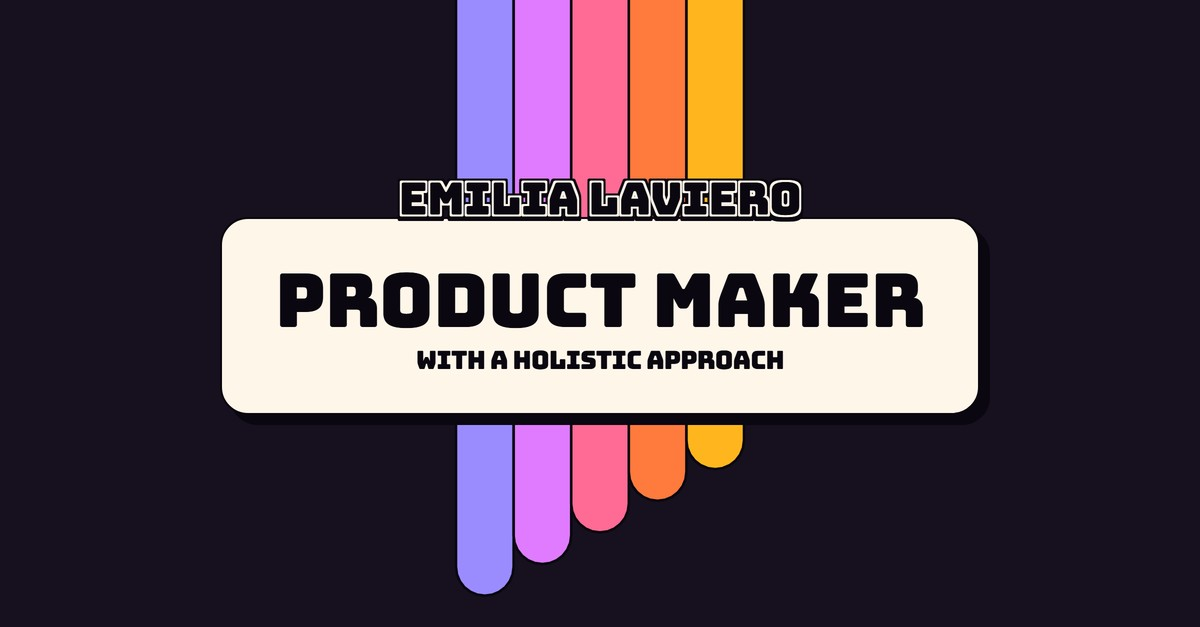
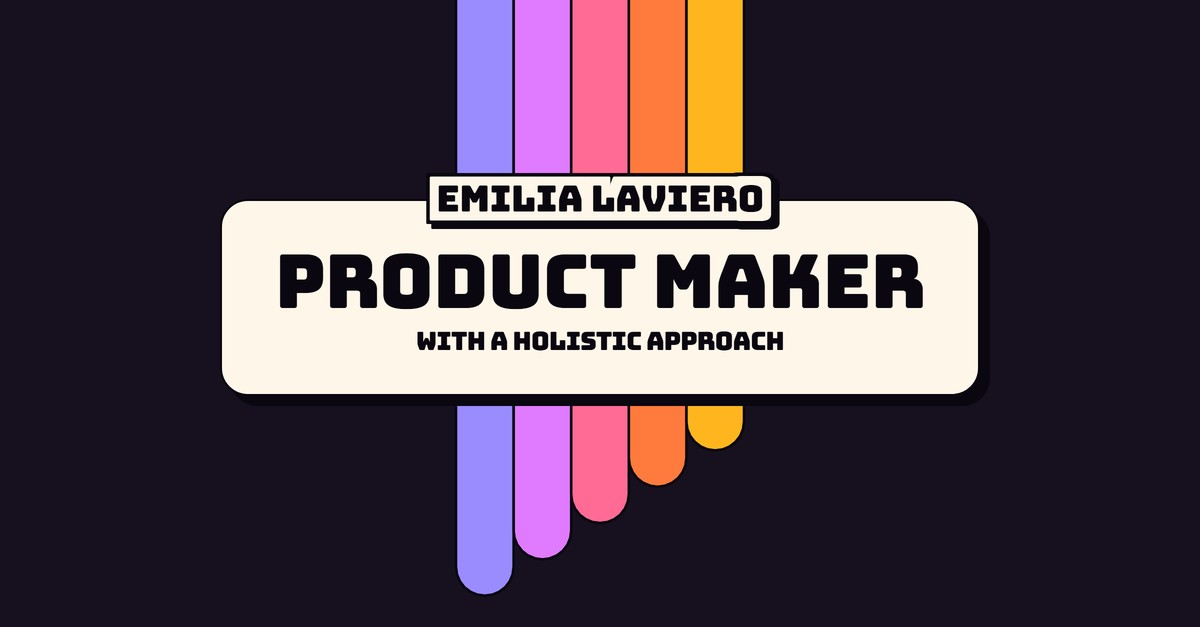
Link preview: name on the card edge, wider paper border

Changed region(s): [[0.185, 0.2727, 0.8325, 0.8182], [0.4625, 0.8182, 0.5242, 0.8485], [0.4317, 0.8788, 0.4625, 0.9091]]

diff --git a/index.html b/index.html
@@ -358,6 +358,7 @@
     .box:hover, .pill:hover, .scroll-hint i, .sq .ear, .sq .mouth, .sq .tongue, .sq .hand { animation: none; }
   }
 </style>
+<script defer src="https://cloud.umami.is/script.js" data-website-id="fcb351f4-7b90-480b-a4d0-76a9ef057f95"></script>
 </head>
 <body class="t-bungee">
 <svg width="0" height="0" style="position:absolute" aria-hidden="true">
@@ -430,7 +431,7 @@
             <p class="lead">For the past five years, I&rsquo;ve worked on B2B <mark class="m1">SaaS</mark> and B2C products in startups. I help teams find <mark class="m0">clarity</mark>: identifying the real problems and prioritising the features that matter&nbsp;most.</p>
             <p class="lead">In <mark class="m1">EdTech</mark>, I found an industry I genuinely love: designing educational <mark class="m0">apps</mark>, building <mark class="m0">design systems</mark> and searching for <mark class="m1">product-market&nbsp;fit</mark>.</p>
           </div>
-          <a class="pill more" href="about.html" data-cursor="About me">Read more ↗</a>
+          <a class="pill more" data-umami-event="read-more-about" href="about.html" data-cursor="About me">Read more ↗</a>
         </div>
       </div>
     </div>
@@ -451,10 +452,10 @@
       <p class="label kick">Thank you for reading!</p>
       <h2 class="display reveal" id="contact-title">I&rsquo;d love to <span class="box">know you</span> too</h2>
       <ul class="links">
-        <li><span class="pill email">lavieroemilia@gmail.com <button type="button" class="copy" data-email="lavieroemilia@gmail.com" aria-label="Copy email" data-cursor="Copy"><svg class="i-copy" viewBox="0 0 24 24" fill="none" aria-hidden="true"><rect x="9" y="9" width="12" height="12" rx="2" stroke="currentColor" stroke-width="2"/><path d="M5 15H4a1 1 0 0 1-1-1V4a1 1 0 0 1 1-1h10a1 1 0 0 1 1 1v1" stroke="currentColor" stroke-width="2" stroke-linecap="round"/></svg><svg class="i-check" viewBox="0 0 24 24" fill="none" aria-hidden="true"><path d="M5 12.5L10 17.5L19 7" stroke="currentColor" stroke-width="2.5" stroke-linecap="round" stroke-linejoin="round"/></svg></button></span></li>
-        <li><a class="pill" href="https://www.linkedin.com/in/emilialaviero/" target="_blank" rel="noopener" data-cursor="Open LinkedIn">LinkedIn ↗</a></li>
-        <li><a class="pill" href="https://medium.com/@emilaviero" target="_blank" rel="noopener" data-cursor="Open Medium">Medium ↗</a></li>
-        <li><a class="pill" href="https://drive.google.com/file/d/1TCPcE9fgOwlY57MC0pf6gdawFP0CLo67/view?usp=sharing" target="_blank" rel="noopener" data-cursor="Open resume">Resume ↗</a></li>
+        <li><span class="pill email">lavieroemilia@gmail.com <button type="button" data-umami-event="copy-email" class="copy" data-email="lavieroemilia@gmail.com" aria-label="Copy email" data-cursor="Copy"><svg class="i-copy" viewBox="0 0 24 24" fill="none" aria-hidden="true"><rect x="9" y="9" width="12" height="12" rx="2" stroke="currentColor" stroke-width="2"/><path d="M5 15H4a1 1 0 0 1-1-1V4a1 1 0 0 1 1-1h10a1 1 0 0 1 1 1v1" stroke="currentColor" stroke-width="2" stroke-linecap="round"/></svg><svg class="i-check" viewBox="0 0 24 24" fill="none" aria-hidden="true"><path d="M5 12.5L10 17.5L19 7" stroke="currentColor" stroke-width="2.5" stroke-linecap="round" stroke-linejoin="round"/></svg></button></span></li>
+        <li><a data-umami-event="open-linkedin" class="pill" href="https://www.linkedin.com/in/emilialaviero/" target="_blank" rel="noopener" data-cursor="Open LinkedIn">LinkedIn ↗</a></li>
+        <li><a data-umami-event="open-medium" class="pill" href="https://medium.com/@emilaviero" target="_blank" rel="noopener" data-cursor="Open Medium">Medium ↗</a></li>
+        <li><a data-umami-event="open-resume" class="pill" href="https://drive.google.com/file/d/1TCPcE9fgOwlY57MC0pf6gdawFP0CLo67/view?usp=sharing" target="_blank" rel="noopener" data-cursor="Open resume">Resume ↗</a></li>
       </ul>
       <div class="foot-bottom"><span>Emilia Laviero &copy; <span id="year"></span></span><span>Madrid, Spain</span><a class="to-top" href="#top" data-jump="0">Back to top ↑</a></div>
     </div>
@@ -778,7 +779,7 @@
   const ROWS = [['two', ['Student Dashboard', 'Dino']], ['two', ['Practice', 'Quota PMS']], ['three', ['Tenant Scoring', 'Dino Design System', 'WOW']]];
   const company = (n) => V4.PROJECTS.find((p) => p.name === n).company;
   $('#work-grid').innerHTML = ROWS.map(([k, names]) => '<div class="work-row ' + k + '">' + names.map((n) =>
-    '<a class="proj" href="' + ({ 'Student Dashboard': 'pages/student-dashboard.html', 'Dino': 'pages/dino.html', 'Practice': 'pages/practice.html', 'Quota PMS': 'pages/quota-pms.html' }[n] || '#work') + '" data-cursor="' + (LINE[n][1] ? 'Coming soon' : 'Open case study') + '"><span class="chip">' + company(n) + '</span><div class="frame"><img src="assets/images/' + IMG[n] + '.jpg" alt="" loading="lazy"></div>'
+    '<a class="proj" data-umami-event="open-project" data-umami-event-project="' + n + '" href="' + ({ 'Student Dashboard': 'pages/student-dashboard.html', 'Dino': 'pages/dino.html', 'Practice': 'pages/practice.html', 'Quota PMS': 'pages/quota-pms.html' }[n] || '#work') + '" data-cursor="' + (LINE[n][1] ? 'Coming soon' : 'Open case study') + '"><span class="chip">' + company(n) + '</span><div class="frame"><img src="assets/images/' + IMG[n] + '.jpg" alt="" loading="lazy"></div>'
     + '<h3>' + LINE[n][0] + '</h3>' + (DESC[n] ? '<p class="desc">' + DESC[n] + '</p>' : '') + (LINE[n][1] ? '<span class="soon">Coming soon</span>' : '') + '</a>').join('') + '</div>').join('');
   $$('.proj').forEach((p) => {
     glue(p.querySelector('h3')); if (p.querySelector('.desc')) glue(p.querySelector('.desc'));

diff --git a/about.html b/about.html
@@ -119,6 +119,7 @@
   }
   @media (prefers-reduced-motion: reduce) { .tool .logo, .pill-btn, .copy svg { transition: none; } .scroll-hint i { animation: none; } }
 </style>
+<script defer src="https://cloud.umami.is/script.js" data-website-id="fcb351f4-7b90-480b-a4d0-76a9ef057f95"></script>
 </head>
 <body>
 <svg width="0" height="0" style="position:absolute" aria-hidden="true">
@@ -157,7 +158,7 @@
       <p>My story starts with words. I began my career coordinating creative projects and working in <mark>copywriting</mark>, writing for different brands and creating educational&nbsp;content.</p>
       <p>Little by little, the words led me to the whole experience. First came UX writing, then <mark>product design</mark>. Over the past five years I&rsquo;ve designed <mark class="alt">B2B and B2C</mark> products in startups: first in PropTech, with tools for property management, and then in <mark class="alt">EdTech</mark>, with learning experiences and educational&nbsp;apps.</p>
       <p>Today I work on <mark>strategy</mark>, asking the big questions that set a product&rsquo;s direction, and I <mark>build the solutions</mark> that answer&nbsp;them.</p>
-      <a class="pill-btn" href="https://drive.google.com/file/d/1TCPcE9fgOwlY57MC0pf6gdawFP0CLo67/view?usp=sharing" target="_blank" rel="noopener">View Resume <svg viewBox="0 0 16 16" fill="none" aria-hidden="true"><path d="M5 11 11 5M6 5h5v5" stroke="currentColor" stroke-width="1.8" stroke-linecap="round" stroke-linejoin="round"/></svg></a>
+      <a data-umami-event="open-resume" class="pill-btn" href="https://drive.google.com/file/d/1TCPcE9fgOwlY57MC0pf6gdawFP0CLo67/view?usp=sharing" target="_blank" rel="noopener">View Resume <svg viewBox="0 0 16 16" fill="none" aria-hidden="true"><path d="M5 11 11 5M6 5h5v5" stroke="currentColor" stroke-width="1.8" stroke-linecap="round" stroke-linejoin="round"/></svg></a>
     </div>
   </section>
 
@@ -216,10 +217,10 @@
   <p class="label">Thank you for reading!</p>
   <h2 class="display" id="contact-title">I&rsquo;d love to <span class="box">know you</span> too</h2>
   <ul class="links">
-    <li><span class="email">lavieroemilia@gmail.com <button type="button" class="copy" data-email="lavieroemilia@gmail.com" aria-label="Copy email"><svg class="i-copy" viewBox="0 0 24 24" fill="none" aria-hidden="true"><rect x="9" y="9" width="12" height="12" rx="2" stroke="currentColor" stroke-width="2"/><path d="M5 15H4a1 1 0 0 1-1-1V4a1 1 0 0 1 1-1h10a1 1 0 0 1 1 1v1" stroke="currentColor" stroke-width="2" stroke-linecap="round"/></svg><svg class="i-check" viewBox="0 0 24 24" fill="none" aria-hidden="true"><path d="M5 12.5L10 17.5L19 7" stroke="currentColor" stroke-width="2.5" stroke-linecap="round" stroke-linejoin="round"/></svg></button></span></li>
-    <li><a href="https://www.linkedin.com/in/emilialaviero/" target="_blank" rel="noopener">LinkedIn ↗</a></li>
-    <li><a href="https://medium.com/@emilaviero" target="_blank" rel="noopener">Medium ↗</a></li>
-    <li><a href="https://drive.google.com/file/d/1TCPcE9fgOwlY57MC0pf6gdawFP0CLo67/view?usp=sharing" target="_blank" rel="noopener">Resume ↗</a></li>
+    <li><span class="email">lavieroemilia@gmail.com <button type="button" data-umami-event="copy-email" class="copy" data-email="lavieroemilia@gmail.com" aria-label="Copy email"><svg class="i-copy" viewBox="0 0 24 24" fill="none" aria-hidden="true"><rect x="9" y="9" width="12" height="12" rx="2" stroke="currentColor" stroke-width="2"/><path d="M5 15H4a1 1 0 0 1-1-1V4a1 1 0 0 1 1-1h10a1 1 0 0 1 1 1v1" stroke="currentColor" stroke-width="2" stroke-linecap="round"/></svg><svg class="i-check" viewBox="0 0 24 24" fill="none" aria-hidden="true"><path d="M5 12.5L10 17.5L19 7" stroke="currentColor" stroke-width="2.5" stroke-linecap="round" stroke-linejoin="round"/></svg></button></span></li>
+    <li><a data-umami-event="open-linkedin" href="https://www.linkedin.com/in/emilialaviero/" target="_blank" rel="noopener">LinkedIn ↗</a></li>
+    <li><a data-umami-event="open-medium" href="https://medium.com/@emilaviero" target="_blank" rel="noopener">Medium ↗</a></li>
+    <li><a data-umami-event="open-resume" href="https://drive.google.com/file/d/1TCPcE9fgOwlY57MC0pf6gdawFP0CLo67/view?usp=sharing" target="_blank" rel="noopener">Resume ↗</a></li>
   </ul>
   <div class="foot"><span>Emilia Laviero &copy; <span id="year">2026</span></span><span>Madrid, Spain</span><a class="to-top" href="#">Back to top ↑</a></div>
 </footer>

diff --git a/pages/practice.html b/pages/practice.html
@@ -26,6 +26,7 @@
   .cover img { object-position: 50% 50%; }
   .zcrop.on-stage { padding: 0; } /* las imágenes ya traen su margen */
 </style>
+<script defer src="https://cloud.umami.is/script.js" data-website-id="fcb351f4-7b90-480b-a4d0-76a9ef057f95"></script>
 </head>
 <body>
 <svg width="0" height="0" style="position:absolute" aria-hidden="true">
@@ -125,9 +126,9 @@
   <section class="divided" aria-labelledby="more-title">
     <div class="more-head"><h2 class="display sec-title" id="more-title" style="margin: 0"><span class="box">More work</span></h2><a href="../#work">All projects ↗</a></div>
     <div class="cards">
-      <a class="proj" href="student-dashboard.html"><span class="chip">Ucademy</span><div class="frame"><img src="../assets/images/project-ucademy-dashboard.jpg" alt="" loading="lazy"></div><h4>Student dashboard</h4><p class="desc">A redesigned start experience that guides students every day, from their first visit to exam&nbsp;day.</p></a>
-      <a class="proj" href="dino.html"><span class="chip">Dino</span><div class="frame"><img src="../assets/images/project-dino-app.jpg" alt="" loading="lazy"></div><h4>Gamified learning app</h4><p class="desc">An MVP for a new line of business at Ucademy, launched to find product-market&nbsp;fit.</p></a>
-      <a class="proj" href="quota-pms.html"><span class="chip">Quota</span><div class="frame"><img src="../assets/images/project-quota-pms.jpg" alt="" loading="lazy"></div><h4>Property management platform</h4><p class="desc">One platform for rental agencies to manage properties, tenants, contracts and&nbsp;accounting.</p></a>
+      <a class="proj" data-umami-event="open-project" data-umami-event-project="Student Dashboard" href="student-dashboard.html"><span class="chip">Ucademy</span><div class="frame"><img src="../assets/images/project-ucademy-dashboard.jpg" alt="" loading="lazy"></div><h4>Student dashboard</h4><p class="desc">A redesigned start experience that guides students every day, from their first visit to exam&nbsp;day.</p></a>
+      <a class="proj" data-umami-event="open-project" data-umami-event-project="Dino" href="dino.html"><span class="chip">Dino</span><div class="frame"><img src="../assets/images/project-dino-app.jpg" alt="" loading="lazy"></div><h4>Gamified learning app</h4><p class="desc">An MVP for a new line of business at Ucademy, launched to find product-market&nbsp;fit.</p></a>
+      <a class="proj" data-umami-event="open-project" data-umami-event-project="Quota PMS" href="quota-pms.html"><span class="chip">Quota</span><div class="frame"><img src="../assets/images/project-quota-pms.jpg" alt="" loading="lazy"></div><h4>Property management platform</h4><p class="desc">One platform for rental agencies to manage properties, tenants, contracts and&nbsp;accounting.</p></a>
     </div>
   </section>
 </main>
@@ -138,9 +139,9 @@
   <h2 class="display" id="contact-title">I&rsquo;d love to <span class="box">know you</span> too</h2>
   <ul class="links">
     <li><a href="#">lavieroemilia@gmail.com</a></li>
-    <li><a href="https://www.linkedin.com/in/emilialaviero/" target="_blank" rel="noopener">LinkedIn ↗</a></li>
-    <li><a href="https://medium.com/@emilaviero" target="_blank" rel="noopener">Medium ↗</a></li>
-    <li><a href="https://drive.google.com/file/d/1TCPcE9fgOwlY57MC0pf6gdawFP0CLo67/view?usp=sharing" target="_blank" rel="noopener">Resume ↗</a></li>
+    <li><a data-umami-event="open-linkedin" href="https://www.linkedin.com/in/emilialaviero/" target="_blank" rel="noopener">LinkedIn ↗</a></li>
+    <li><a data-umami-event="open-medium" href="https://medium.com/@emilaviero" target="_blank" rel="noopener">Medium ↗</a></li>
+    <li><a data-umami-event="open-resume" href="https://drive.google.com/file/d/1TCPcE9fgOwlY57MC0pf6gdawFP0CLo67/view?usp=sharing" target="_blank" rel="noopener">Resume ↗</a></li>
   </ul>
   <div class="foot"><span>Emilia Laviero &copy; 2026</span><span>Madrid, Spain</span><a class="to-top" href="#">Back to top ↑</a></div>
 </footer>

diff --git a/pages/student-dashboard.html b/pages/student-dashboard.html
@@ -19,6 +19,7 @@
 <link rel="preconnect" href="https://fonts.gstatic.com" crossorigin>
 <link href="https://fonts.googleapis.com/css2?family=Archivo:wdth,wght@62..125,400..900&family=Bungee&display=swap" rel="stylesheet">
 <link rel="stylesheet" href="../assets/css/case-study.css">
+<script defer src="https://cloud.umami.is/script.js" data-website-id="fcb351f4-7b90-480b-a4d0-76a9ef057f95"></script>
 </head>
 <body>
 <svg width="0" height="0" style="position:absolute" aria-hidden="true">
@@ -109,8 +110,8 @@
   <section class="divided" aria-labelledby="more-title">
     <div class="more-head"><h2 class="display sec-title" id="more-title" style="margin: 0"><span class="box">More work</span></h2><a href="../#work">All projects ↗</a></div>
     <div class="cards">
-      <a class="proj" href="practice.html"><span class="chip">Ucademy</span><div class="frame"><img src="../assets/images/project-ucademy-practice.jpg" alt="" loading="lazy"></div><h4>Tests and practice</h4><p class="desc">A hidden feature turned into a sales argument and a reason for students to come&nbsp;back.</p></a>
-      <a class="proj" href="dino.html"><span class="chip">Dino</span><div class="frame"><img src="../assets/images/project-dino-app.jpg" alt="" loading="lazy"></div><h4>Gamified learning app</h4><p class="desc">An MVP for a new line of business at Ucademy, launched to find product-market&nbsp;fit.</p></a>
+      <a class="proj" data-umami-event="open-project" data-umami-event-project="Practice" href="practice.html"><span class="chip">Ucademy</span><div class="frame"><img src="../assets/images/project-ucademy-practice.jpg" alt="" loading="lazy"></div><h4>Tests and practice</h4><p class="desc">A hidden feature turned into a sales argument and a reason for students to come&nbsp;back.</p></a>
+      <a class="proj" data-umami-event="open-project" data-umami-event-project="Dino" href="dino.html"><span class="chip">Dino</span><div class="frame"><img src="../assets/images/project-dino-app.jpg" alt="" loading="lazy"></div><h4>Gamified learning app</h4><p class="desc">An MVP for a new line of business at Ucademy, launched to find product-market&nbsp;fit.</p></a>
       <a class="proj" href="#"><span class="chip">Dino</span><div class="frame"><img src="../assets/images/project-dino-design-system.jpg" alt="" loading="lazy"></div><h4>Dino design system, built from zero</h4><span class="soon">Coming soon</span></a>
     </div>
   </section>
@@ -122,9 +123,9 @@
   <h2 class="display" id="contact-title">I&rsquo;d love to <span class="box">know you</span> too</h2>
   <ul class="links">
     <li><a href="#">lavieroemilia@gmail.com</a></li>
-    <li><a href="https://www.linkedin.com/in/emilialaviero/" target="_blank" rel="noopener">LinkedIn ↗</a></li>
-    <li><a href="https://medium.com/@emilaviero" target="_blank" rel="noopener">Medium ↗</a></li>
-    <li><a href="https://drive.google.com/file/d/1TCPcE9fgOwlY57MC0pf6gdawFP0CLo67/view?usp=sharing" target="_blank" rel="noopener">Resume ↗</a></li>
+    <li><a data-umami-event="open-linkedin" href="https://www.linkedin.com/in/emilialaviero/" target="_blank" rel="noopener">LinkedIn ↗</a></li>
+    <li><a data-umami-event="open-medium" href="https://medium.com/@emilaviero" target="_blank" rel="noopener">Medium ↗</a></li>
+    <li><a data-umami-event="open-resume" href="https://drive.google.com/file/d/1TCPcE9fgOwlY57MC0pf6gdawFP0CLo67/view?usp=sharing" target="_blank" rel="noopener">Resume ↗</a></li>
   </ul>
   <div class="foot"><span>Emilia Laviero &copy; 2026</span><span>Madrid, Spain</span><a class="to-top" href="#">Back to top ↑</a></div>
 </footer>

diff --git a/pages/quota-pms.html b/pages/quota-pms.html
@@ -25,6 +25,7 @@
   .cover img { object-position: 50% 50%; }
   .zcrop.on-stage { padding: 0; } /* las imágenes ya traen su margen */
 </style>
+<script defer src="https://cloud.umami.is/script.js" data-website-id="fcb351f4-7b90-480b-a4d0-76a9ef057f95"></script>
 </head>
 <body>
 <svg width="0" height="0" style="position:absolute" aria-hidden="true">
@@ -125,8 +126,8 @@
   <section class="divided" aria-labelledby="more-title">
     <div class="more-head"><h2 class="display sec-title" id="more-title" style="margin: 0"><span class="box">More work</span></h2><a href="../#work">All projects ↗</a></div>
     <div class="cards">
-      <a class="proj" href="student-dashboard.html"><span class="chip">Ucademy</span><div class="frame"><img src="../assets/images/project-ucademy-dashboard.jpg" alt="" loading="lazy"></div><h4>Student dashboard</h4><p class="desc">A redesigned start experience that guides students every day, from their first visit to exam&nbsp;day.</p></a>
-      <a class="proj" href="dino.html"><span class="chip">Dino</span><div class="frame"><img src="../assets/images/project-dino-app.jpg" alt="" loading="lazy"></div><h4>Gamified learning app</h4><p class="desc">An MVP for a new line of business at Ucademy, launched to find product-market&nbsp;fit.</p></a>
+      <a class="proj" data-umami-event="open-project" data-umami-event-project="Student Dashboard" href="student-dashboard.html"><span class="chip">Ucademy</span><div class="frame"><img src="../assets/images/project-ucademy-dashboard.jpg" alt="" loading="lazy"></div><h4>Student dashboard</h4><p class="desc">A redesigned start experience that guides students every day, from their first visit to exam&nbsp;day.</p></a>
+      <a class="proj" data-umami-event="open-project" data-umami-event-project="Dino" href="dino.html"><span class="chip">Dino</span><div class="frame"><img src="../assets/images/project-dino-app.jpg" alt="" loading="lazy"></div><h4>Gamified learning app</h4><p class="desc">An MVP for a new line of business at Ucademy, launched to find product-market&nbsp;fit.</p></a>
       <a class="proj" href="#"><span class="chip">Quota</span><div class="frame"><img src="../assets/images/project-tenant-scoring.jpg" alt="" loading="lazy"></div><h4>Tenant screening with less friction</h4><span class="soon">Coming soon</span></a>
     </div>
   </section>
@@ -138,9 +139,9 @@
   <h2 class="display" id="contact-title">I&rsquo;d love to <span class="box">know you</span> too</h2>
   <ul class="links">
     <li><a href="#">lavieroemilia@gmail.com</a></li>
-    <li><a href="https://www.linkedin.com/in/emilialaviero/" target="_blank" rel="noopener">LinkedIn ↗</a></li>
-    <li><a href="https://medium.com/@emilaviero" target="_blank" rel="noopener">Medium ↗</a></li>
-    <li><a href="https://drive.google.com/file/d/1TCPcE9fgOwlY57MC0pf6gdawFP0CLo67/view?usp=sharing" target="_blank" rel="noopener">Resume ↗</a></li>
+    <li><a data-umami-event="open-linkedin" href="https://www.linkedin.com/in/emilialaviero/" target="_blank" rel="noopener">LinkedIn ↗</a></li>
+    <li><a data-umami-event="open-medium" href="https://medium.com/@emilaviero" target="_blank" rel="noopener">Medium ↗</a></li>
+    <li><a data-umami-event="open-resume" href="https://drive.google.com/file/d/1TCPcE9fgOwlY57MC0pf6gdawFP0CLo67/view?usp=sharing" target="_blank" rel="noopener">Resume ↗</a></li>
   </ul>
   <div class="foot"><span>Emilia Laviero &copy; 2026</span><span>Madrid, Spain</span><a class="to-top" href="#">Back to top ↑</a></div>
 </footer>

diff --git a/pages/dino.html b/pages/dino.html
@@ -24,6 +24,7 @@
   :root { --stage: #D3F4C5; }
   .cover img { object-position: 50% 50%; }
 </style>
+<script defer src="https://cloud.umami.is/script.js" data-website-id="fcb351f4-7b90-480b-a4d0-76a9ef057f95"></script>
 </head>
 <body>
 <svg width="0" height="0" style="position:absolute" aria-hidden="true">
@@ -124,8 +125,8 @@
   <section class="divided" aria-labelledby="more-title">
     <div class="more-head"><h2 class="display sec-title" id="more-title" style="margin: 0"><span class="box">More work</span></h2><a href="../#work">All projects ↗</a></div>
     <div class="cards">
-      <a class="proj" href="student-dashboard.html"><span class="chip">Ucademy</span><div class="frame"><img src="../assets/images/project-ucademy-dashboard.jpg" alt="" loading="lazy"></div><h4>Student dashboard</h4><p class="desc">A redesigned start experience that guides students every day, from their first visit to exam&nbsp;day.</p></a>
-      <a class="proj" href="practice.html"><span class="chip">Ucademy</span><div class="frame"><img src="../assets/images/project-ucademy-practice.jpg" alt="" loading="lazy"></div><h4>Tests and practice</h4><p class="desc">A hidden feature turned into a sales argument and a reason for students to come&nbsp;back.</p></a>
+      <a class="proj" data-umami-event="open-project" data-umami-event-project="Student Dashboard" href="student-dashboard.html"><span class="chip">Ucademy</span><div class="frame"><img src="../assets/images/project-ucademy-dashboard.jpg" alt="" loading="lazy"></div><h4>Student dashboard</h4><p class="desc">A redesigned start experience that guides students every day, from their first visit to exam&nbsp;day.</p></a>
+      <a class="proj" data-umami-event="open-project" data-umami-event-project="Practice" href="practice.html"><span class="chip">Ucademy</span><div class="frame"><img src="../assets/images/project-ucademy-practice.jpg" alt="" loading="lazy"></div><h4>Tests and practice</h4><p class="desc">A hidden feature turned into a sales argument and a reason for students to come&nbsp;back.</p></a>
       <a class="proj" href="#"><span class="chip">Dino</span><div class="frame"><img src="../assets/images/project-dino-design-system.jpg" alt="" loading="lazy"></div><h4>Dino design system, built from zero</h4><span class="soon">Coming soon</span></a>
     </div>
   </section>
@@ -137,9 +138,9 @@
   <h2 class="display" id="contact-title">I&rsquo;d love to <span class="box">know you</span> too</h2>
   <ul class="links">
     <li><a href="#">lavieroemilia@gmail.com</a></li>
-    <li><a href="https://www.linkedin.com/in/emilialaviero/" target="_blank" rel="noopener">LinkedIn ↗</a></li>
-    <li><a href="https://medium.com/@emilaviero" target="_blank" rel="noopener">Medium ↗</a></li>
-    <li><a href="https://drive.google.com/file/d/1TCPcE9fgOwlY57MC0pf6gdawFP0CLo67/view?usp=sharing" target="_blank" rel="noopener">Resume ↗</a></li>
+    <li><a data-umami-event="open-linkedin" href="https://www.linkedin.com/in/emilialaviero/" target="_blank" rel="noopener">LinkedIn ↗</a></li>
+    <li><a data-umami-event="open-medium" href="https://medium.com/@emilaviero" target="_blank" rel="noopener">Medium ↗</a></li>
+    <li><a data-umami-event="open-resume" href="https://drive.google.com/file/d/1TCPcE9fgOwlY57MC0pf6gdawFP0CLo67/view?usp=sharing" target="_blank" rel="noopener">Resume ↗</a></li>
   </ul>
   <div class="foot"><span>Emilia Laviero &copy; 2026</span><span>Madrid, Spain</span><a class="to-top" href="#">Back to top ↑</a></div>
 </footer>
